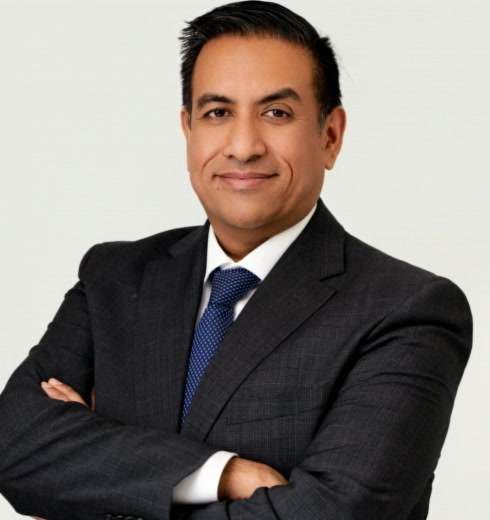
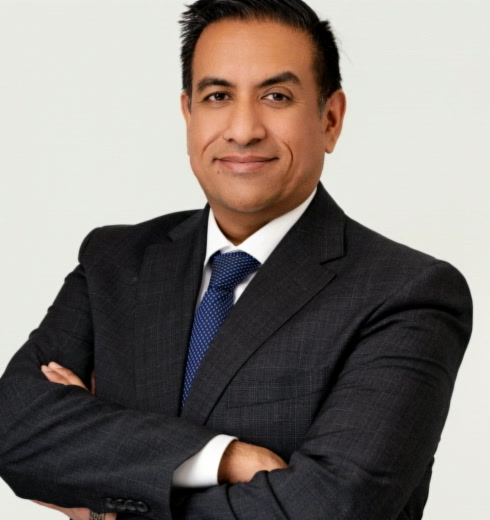
Fix crop lines: shift down in source image, reset CSS to center

diff --git a/style.css b/style.css
@@ -43,7 +43,7 @@ a:hover { text-decoration: underline; }
   height: 220px;
   border-radius: 110px;
   object-fit: cover;
-  object-position: center calc(50% + 25px);
+  object-position: center center;
 }
 
 #ddesc {
